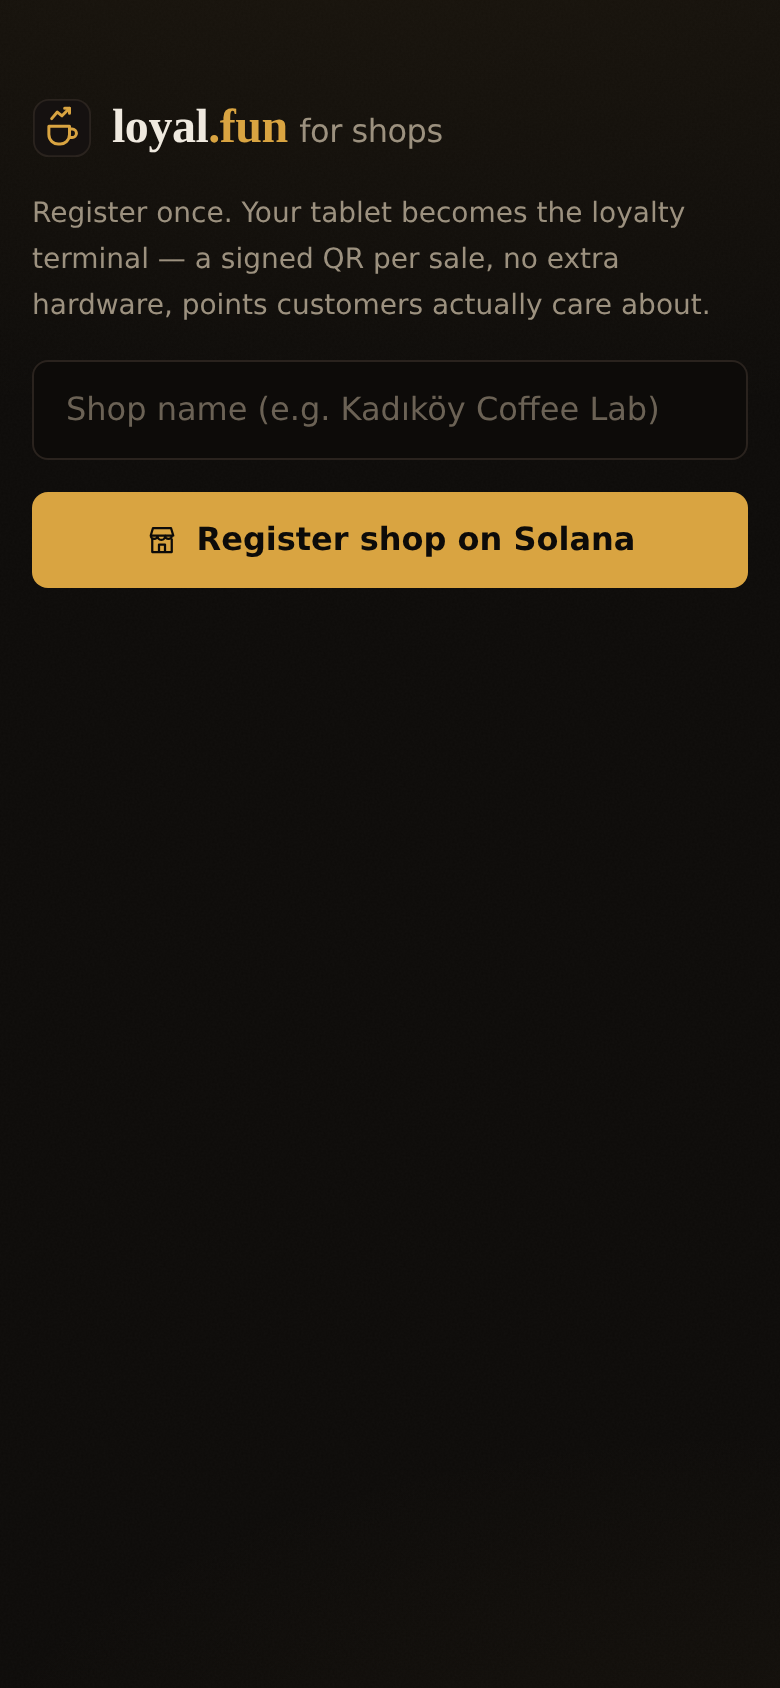
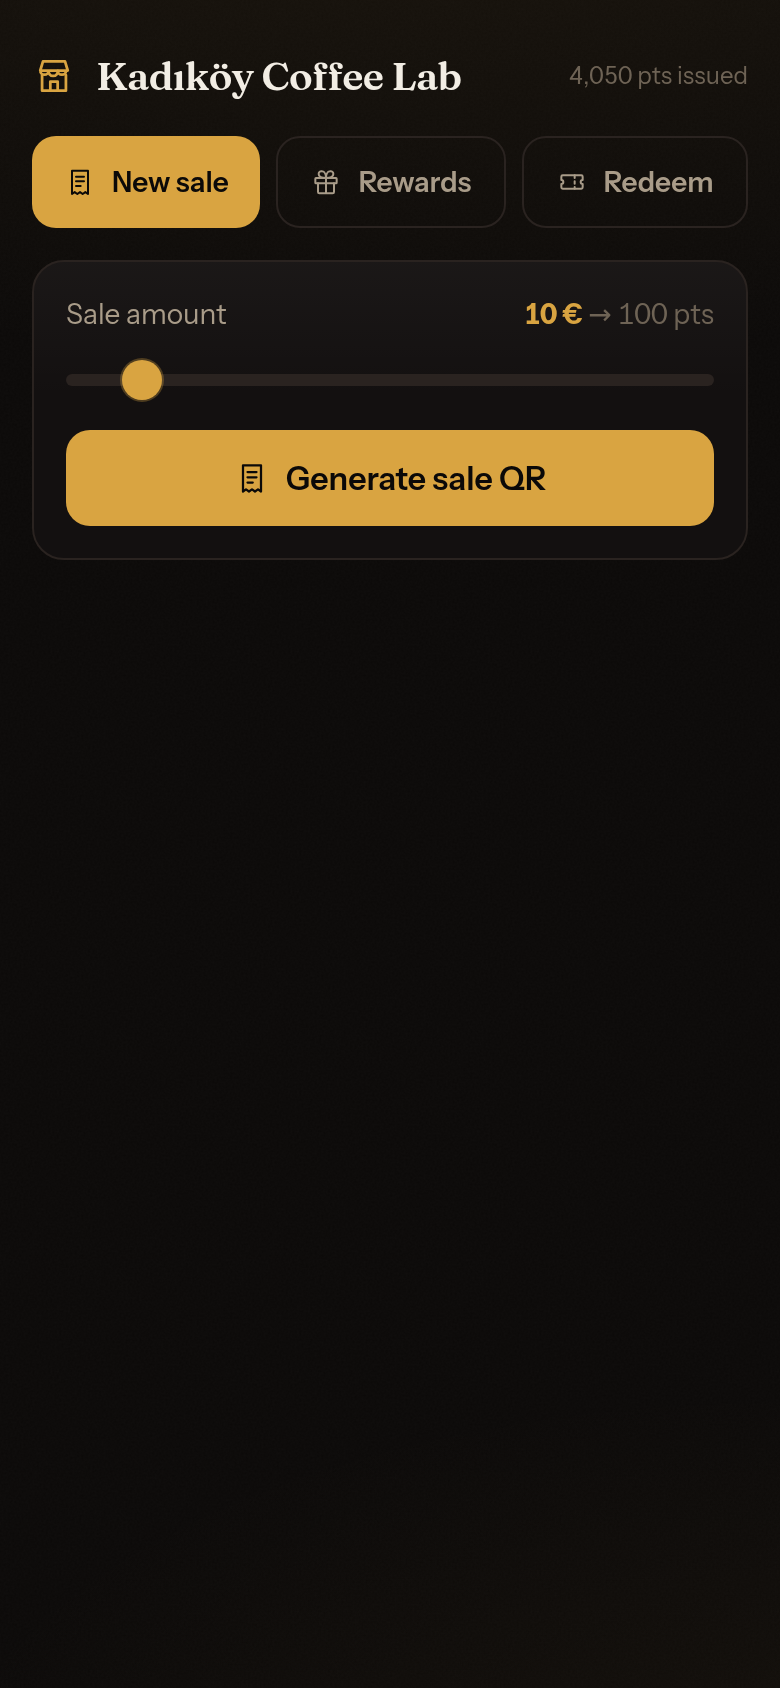
Refresh merchant screenshots and reconcile the README with the new app
- Merchant panel, live sale QR, rewards tab and demo till recaptured on the
  new design with real devnet data (Kadikoy Coffee Lab, 4,050 pts issued)
- Dropped the removed /api/fund from the hosting section, mapped the new
  lib/component files, renamed the Degen tab to Trade in the walkthrough and
  added a leaderboard/shops verification step
- Merchant tab label no longer wraps; issued counter is thousands-separated

Claude-Session: https://claude.ai/code/session_01PesiiwiZLKQApp1y7pvUKB

Changed region(s): [[0.0308, 0.0308, 0.9846, 0.3697], [0.7385, 0.0308, 0.8615, 0.0616], [0.8923, 0.0308, 0.9538, 0.0616]]

diff --git a/app/src/app/merchant/page.tsx b/app/src/app/merchant/page.tsx
@@ -354,7 +354,7 @@ export default function MerchantPage() {
           <h1 className="text-xl font-semibold truncate">{merchantState.name}</h1>
         </span>
         <span className="text-xs text-faint tabular-nums">
-          {merchantState.totalIssued.toString()} pts issued
+          {Number(merchantState.totalIssued.toString()).toLocaleString("en-US")} pts issued
         </span>
       </header>
 
@@ -377,7 +377,7 @@ export default function MerchantPage() {
           <button
             key={key}
             onClick={() => setTab(key)}
-            className={`flex-1 btn !py-2 text-sm ${
+            className={`flex-1 btn !py-2 text-sm whitespace-nowrap ${
               tab === key
                 ? "bg-accent text-bg"
                 : "border border-edge text-muted hover:text-ink"

diff --git a/README.en.md b/README.en.md
@@ -31,7 +31,7 @@
 
 1. Open [`/demo-merchant`](https://loyalfun.vercel.app/demo-merchant) on a laptop — one tap registers the demo till; the 50/100/200/500 buttons render a signed, 60-second sale QR
 2. On your phone open [loyalfun.vercel.app](https://loyalfun.vercel.app) → **Scan** and scan the code — or use the native camera: the QR is a deep link and opens the app by itself
-3. Points land in the embedded wallet → **Degen**: a 5× BONK position → **Market**: a cNFT coupon → **Profile**: a soulbound badge
+3. Points land in the embedded wallet → **Trade**: a 5× BONK position → **Market**: a cNFT coupon → **Profile**: a soulbound badge
 4. Running a shop? [`/merchant`](https://loyalfun.vercel.app/merchant): registration, your own sale QRs, reward listings and the coupon-redemption scanner
 
 <p align="center"><a href="https://loyalfun.vercel.app">App</a> · <a href="https://loyalfun.vercel.app/merchant">Merchant panel</a> · <a href="https://loyalfun.vercel.app/demo-merchant">Demo till</a> · <a href="https://loyalfun.vercel.app/api/health">API status</a></p>
@@ -54,9 +54,13 @@ loyal.fun turns small-shop loyalty points into a living on-chain asset on Solana
 |---|---|---|
 | ![Market](docs/screenshots/market.png) | ![Shops](docs/screenshots/shops.png) | ![Profile](docs/screenshots/profile.png) |
 
-| Scan | Merchant panel |
+| Scan | Merchant panel | Sale code (60 s) |
+|---|---|---|
+| ![Scan](docs/screenshots/scan.png) | ![Merchant](docs/screenshots/merchant.png) | ![Sale QR](docs/screenshots/merchant-sale.png) |
+
+| Merchant rewards | Demo till |
 |---|---|
-| ![Scan](docs/screenshots/scan.png) | ![Merchant](docs/screenshots/merchant.png) |
+| ![Merchant rewards](docs/screenshots/merchant-rewards.png) | ![Demo till](docs/screenshots/demo-merchant.png) |
 
 The customer app is in English (mobile-first PWA); the merchant dashboard lives at `/merchant` on the shop's tablet. Every number in these shots is read from devnet — nothing is mocked.
 
@@ -238,10 +242,9 @@ cp relayer/.env.example relayer/.env && npm run relayer   # :8787
 
 The Vercel project points at the `app/` directory. **The relayer is built
 in** as serverless routes: `/api/sponsor` (fee-payer co-signing with a
-program whitelist), `/api/price/:symbol` (posts fresh Pyth prices),
-`/api/fund` (tops up burner wallets with a sliver of SOL for account rent —
-the relayer pays fees, but `init` rent is debited from the user) and
-`/api/health`. The only required environment variable:
+program whitelist; burner-wallet rent top-ups ride along with an
+already-validated transaction), `/api/price/:symbol` (posts fresh Pyth
+prices) and `/api/health`. The only required environment variable:
 
 | Variable | Value |
 |---|---|
@@ -323,7 +326,7 @@ After importing: `solana address` must print your Phantom address; finish with `
 **Window B — the customer (home page):**
 4. **Scan & earn** — scan the QR from window A (no camera? "Paste the QR payload"). You should see `+100 LOYAL` and an Activity entry linking to the Explorer.
 5. Try scanning the **same** QR again → the transaction must be rejected (nonce replay guard).
-6. **Degen** — pick a vault, set stake and 5× leverage, open a position; watch live PnL and the liquidation line; close it. The balance changes by `clamp(1+5Δ,0,5)` minus the 2% fee.
+6. **Trade** — pick a vault, set stake and 5× leverage, open a position; watch live PnL and the liquidation line; close it. The balance changes by `clamp(1+5Δ,0,5)` minus the 2% fee.
 7. **Market** — buy a coupon; it appears under "My coupons" (needs the DAS RPC).
 8. Tap the coupon → a redemption QR appears (a partially-signed transaction, valid ~60–90 s).
 
@@ -331,7 +334,8 @@ After importing: `solana address` must print your Phantom address; finish with `
 9. **Redeem** tab — scan the customer's QR. The coupon burns on-chain; the "Redeemed" counter increments. The same coupon will not pass twice.
 
 **Window B — the customer:**
-10. **Profile** — claim the "First Blood" badge (unlocked by your first settled position). It's NonTransferable — try sending it from any wallet and watch the transfer fail.
+10. **Leaderboard** and **Shops** (from Home) — your wallet should now appear in the ranking, and the shop you scanned at should be listed in the coalition with its issued-points count updated.
+11. **Profile** — claim the "First Blood" badge (unlocked by your first settled position). It's NonTransferable — try sending it from any wallet and watch the transfer fail.
 
 ### 7.5. On-chain verification (Explorer, cluster=devnet)
 
@@ -353,10 +357,15 @@ After importing: `solana address` must print your Phantom address; finish with `
 ```
 programs/loyal_core/   main Anchor program (points, vaults, market, badges)
 programs/loyal_hook/   Token-2022 transfer hook (closed-loop whitelist)
-app/                   Next.js 14 PWA — customer app + /merchant
+app/                   Next.js 14 PWA — customer, /merchant, /demo-merchant
+  src/components/ui.tsx      UI primitives (Screen, Sheet, Skeleton, ErrorNote…)
+  src/components/viz.tsx     charts: Sparkline, DeltaValue, RiskMeter, BarRow
+  src/lib/queries.ts         account reads: leaderboard, shops, protocol stats
+  src/lib/verifyRedeem.ts    validates a transaction before the merchant signs
+  src/app/api/               built-in relayer (sponsor / price / health)
 relayer/               fee payer + QR signing + Pyth price posting (Express)
 tests/                 integration suite + deterministic PnL unit tests
-scripts/               deploy / create_vaults / seed_demo / phantom_to_keypair
+scripts/               deploy / create_vaults / seed_demo / wallet recovery
 docs/screenshots/      screenshots used above
 keys/                  devnet program keypairs (intentionally committed, demo grade)
 ```

diff --git a/README.md b/README.md
@@ -31,7 +31,7 @@
 
 1. Otwórz [`/demo-merchant`](https://loyalfun.vercel.app/demo-merchant) na laptopie — jedno dotknięcie rejestruje kasę demo, przyciski 50/100/200/500 generują podpisany, 60-sekundowy QR sprzedaży
 2. Telefonem otwórz [loyalfun.vercel.app](https://loyalfun.vercel.app) → **Scan** i zeskanuj kod — albo użyj zwykłego aparatu: QR to głęboki link, sam otworzy aplikację
-3. Punkty wpadają na wbudowany portfel → **Degen**: pozycja 5× na BONK → **Market**: kupon cNFT → **Profile**: odznaka soulbound
+3. Punkty wpadają na wbudowany portfel → **Trade**: pozycja 5× na BONK → **Market**: kupon cNFT → **Profile**: odznaka soulbound
 4. Własny sklep? [`/merchant`](https://loyalfun.vercel.app/merchant): rejestracja, własne QR sprzedaży, listingi nagród i skaner realizacji kuponów
 
 <p align="center"><a href="https://loyalfun.vercel.app">Aplikacja</a> · <a href="https://loyalfun.vercel.app/merchant">Panel sklepu</a> · <a href="https://loyalfun.vercel.app/demo-merchant">Kiosk demo</a> · <a href="https://loyalfun.vercel.app/api/health">Status API</a></p>
@@ -54,9 +54,13 @@ loyal.fun zamienia punkty lojalnościowe małych sklepów w żywe aktywo na Sola
 |---|---|---|
 | ![Market](docs/screenshots/market.png) | ![Shops](docs/screenshots/shops.png) | ![Profile](docs/screenshots/profile.png) |
 
-| Skanowanie | Panel sprzedawcy |
+| Skanowanie | Panel sprzedawcy | Kod sprzedaży (60 s) |
+|---|---|---|
+| ![Scan](docs/screenshots/scan.png) | ![Merchant](docs/screenshots/merchant.png) | ![Sale QR](docs/screenshots/merchant-sale.png) |
+
+| Nagrody sprzedawcy | Kiosk demo |
 |---|---|
-| ![Scan](docs/screenshots/scan.png) | ![Merchant](docs/screenshots/merchant.png) |
+| ![Merchant rewards](docs/screenshots/merchant-rewards.png) | ![Demo till](docs/screenshots/demo-merchant.png) |
 
 Aplikacja kliencka jest w języku angielskim (PWA, mobile-first); dashboard sprzedawcy działa pod `/merchant` na tablecie sklepu. Wszystkie liczby na zrzutach pochodzą z devnetu — nic nie jest zaślepką.
 
@@ -238,9 +242,8 @@ cp relayer/.env.example relayer/.env && npm run relayer   # :8787
 
 Projekt Vercela wskazuje katalog `app/`. **Relayer jest wbudowany** jako
 route'y serverless: `/api/sponsor` (współpodpis fee-payera z whitelistą
-programów), `/api/price/:symbol` (publikacja świeżych cen Pyth),
-`/api/fund` (automatyczne zasilenie portfela burner drobnym SOL na czynsz
-kont — relayer płaci opłaty, ale rent kont `init` schodzi z użytkownika)
+programów; doładowanie czynszu dla portfela burner jedzie razem z już
+zwalidowaną transakcją), `/api/price/:symbol` (publikacja świeżych cen Pyth)
 oraz `/api/health`. Jedyna wymagana zmienna środowiskowa:
 
 | Zmienna | Wartość |
@@ -323,7 +326,7 @@ Po imporcie: `solana address` musi pokazać adres z Phantoma; na końcu `history
 **Okno B — klient (strona główna):**
 4. **Scan & earn** — zeskanuj QR z okna A (bez kamery: „Paste the QR payload"). Powinno pojawić się `+100 LOYAL` i wpis w Activity z linkiem do Explorera.
 5. Spróbuj zeskanować **ten sam** QR drugi raz → transakcja musi zostać odrzucona (ochrona nonce przed replay).
-6. **Degen** — wybierz vault, ustaw stake i dźwignię 5×, otwórz pozycję; obserwuj live PnL i linię likwidacji; zamknij pozycję. Saldo zmienia się o `clamp(1+5Δ,0,5)` minus 2% fee.
+6. **Trade** — wybierz vault, ustaw stake i dźwignię 5×, otwórz pozycję; obserwuj live PnL i linię likwidacji; zamknij pozycję. Saldo zmienia się o `clamp(1+5Δ,0,5)` minus 2% fee.
 7. **Market** — kup kupon; pojawi się w „My coupons" (wymaga RPC z DAS).
 8. Dotknij kuponu → pokaże się QR realizacji (częściowo podpisana transakcja, ważna ~60–90 s).
 
@@ -331,7 +334,8 @@ Po imporcie: `solana address` musi pokazać adres z Phantoma; na końcu `history
 9. Zakładka **Redeem** — zeskanuj QR klienta. Kupon spala się on-chain; licznik „Redeemed" rośnie. Ten sam kupon drugi raz nie przejdzie.
 
 **Okno B — klient:**
-10. **Profile** — odbierz odznakę „First Blood" (po pierwszym rozliczeniu pozycji). Odznaka jest NonTransferable — spróbuj wysłać ją z dowolnego portfela i patrz, jak transfer się nie udaje.
+10. **Leaderboard** i **Shops** (z ekranu Home) — Twój portfel powinien pojawić się w rankingu, a sklep, w którym skanowałeś, na liście koalicji z zaktualizowaną liczbą wydanych punktów.
+11. **Profile** — odbierz odznakę „First Blood" (po pierwszym rozliczeniu pozycji). Odznaka jest NonTransferable — spróbuj wysłać ją z dowolnego portfela i patrz, jak transfer się nie udaje.
 
 ### 7.5. Weryfikacja on-chain (Explorer, cluster=devnet)
 
@@ -353,10 +357,15 @@ Po imporcie: `solana address` musi pokazać adres z Phantoma; na końcu `history
 ```
 programs/loyal_core/   główny program Anchor (punkty, vaulty, market, odznaki)
 programs/loyal_hook/   transfer hook Token-2022 (whitelista zamkniętego obiegu)
-app/                   PWA Next.js 14 — aplikacja klienta + /merchant
+app/                   PWA Next.js 14 — klient, /merchant, /demo-merchant
+  src/components/ui.tsx      prymitywy UI (Screen, Sheet, Skeleton, ErrorNote…)
+  src/components/viz.tsx     wykresy: Sparkline, DeltaValue, RiskMeter, BarRow
+  src/lib/queries.ts         odczyt kont: leaderboard, sklepy, statystyki
+  src/lib/verifyRedeem.ts    walidacja transakcji przed podpisem sprzedawcy
+  src/app/api/               wbudowany relayer (sponsor / price / health)
 relayer/               fee payer + podpisy QR + publikacja cen Pyth (Express)
 tests/                 suite integracyjna + deterministyczne testy PnL
-scripts/               deploy / create_vaults / seed_demo / phantom_to_keypair
+scripts/               deploy / create_vaults / seed_demo / odzyskiwanie portfela
 docs/screenshots/      zrzuty ekranu użyte wyżej
 keys/                  devnetowe keypairy programów (celowo w repo, klasa demo)
 ```